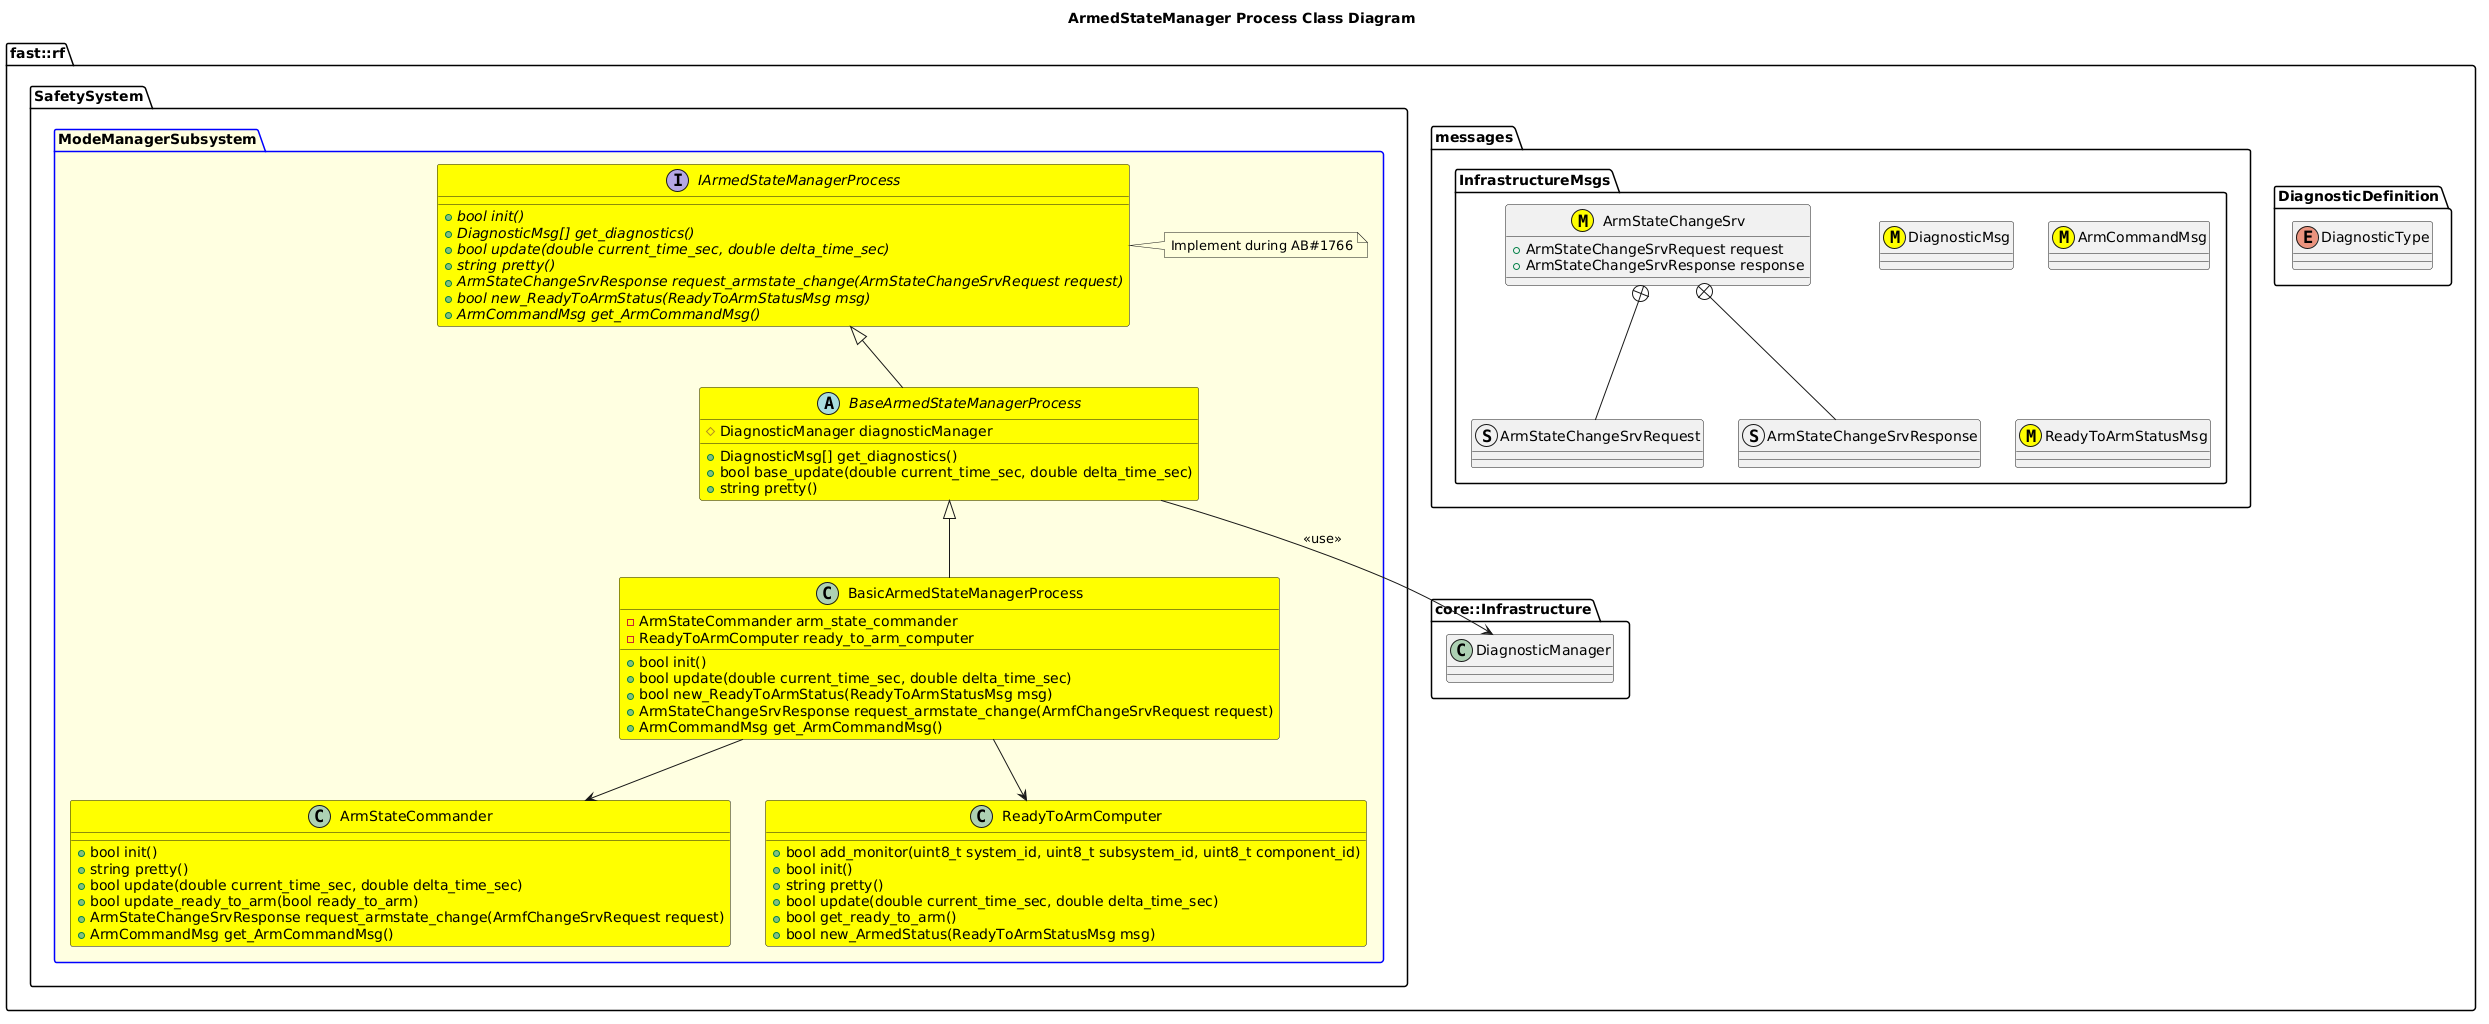
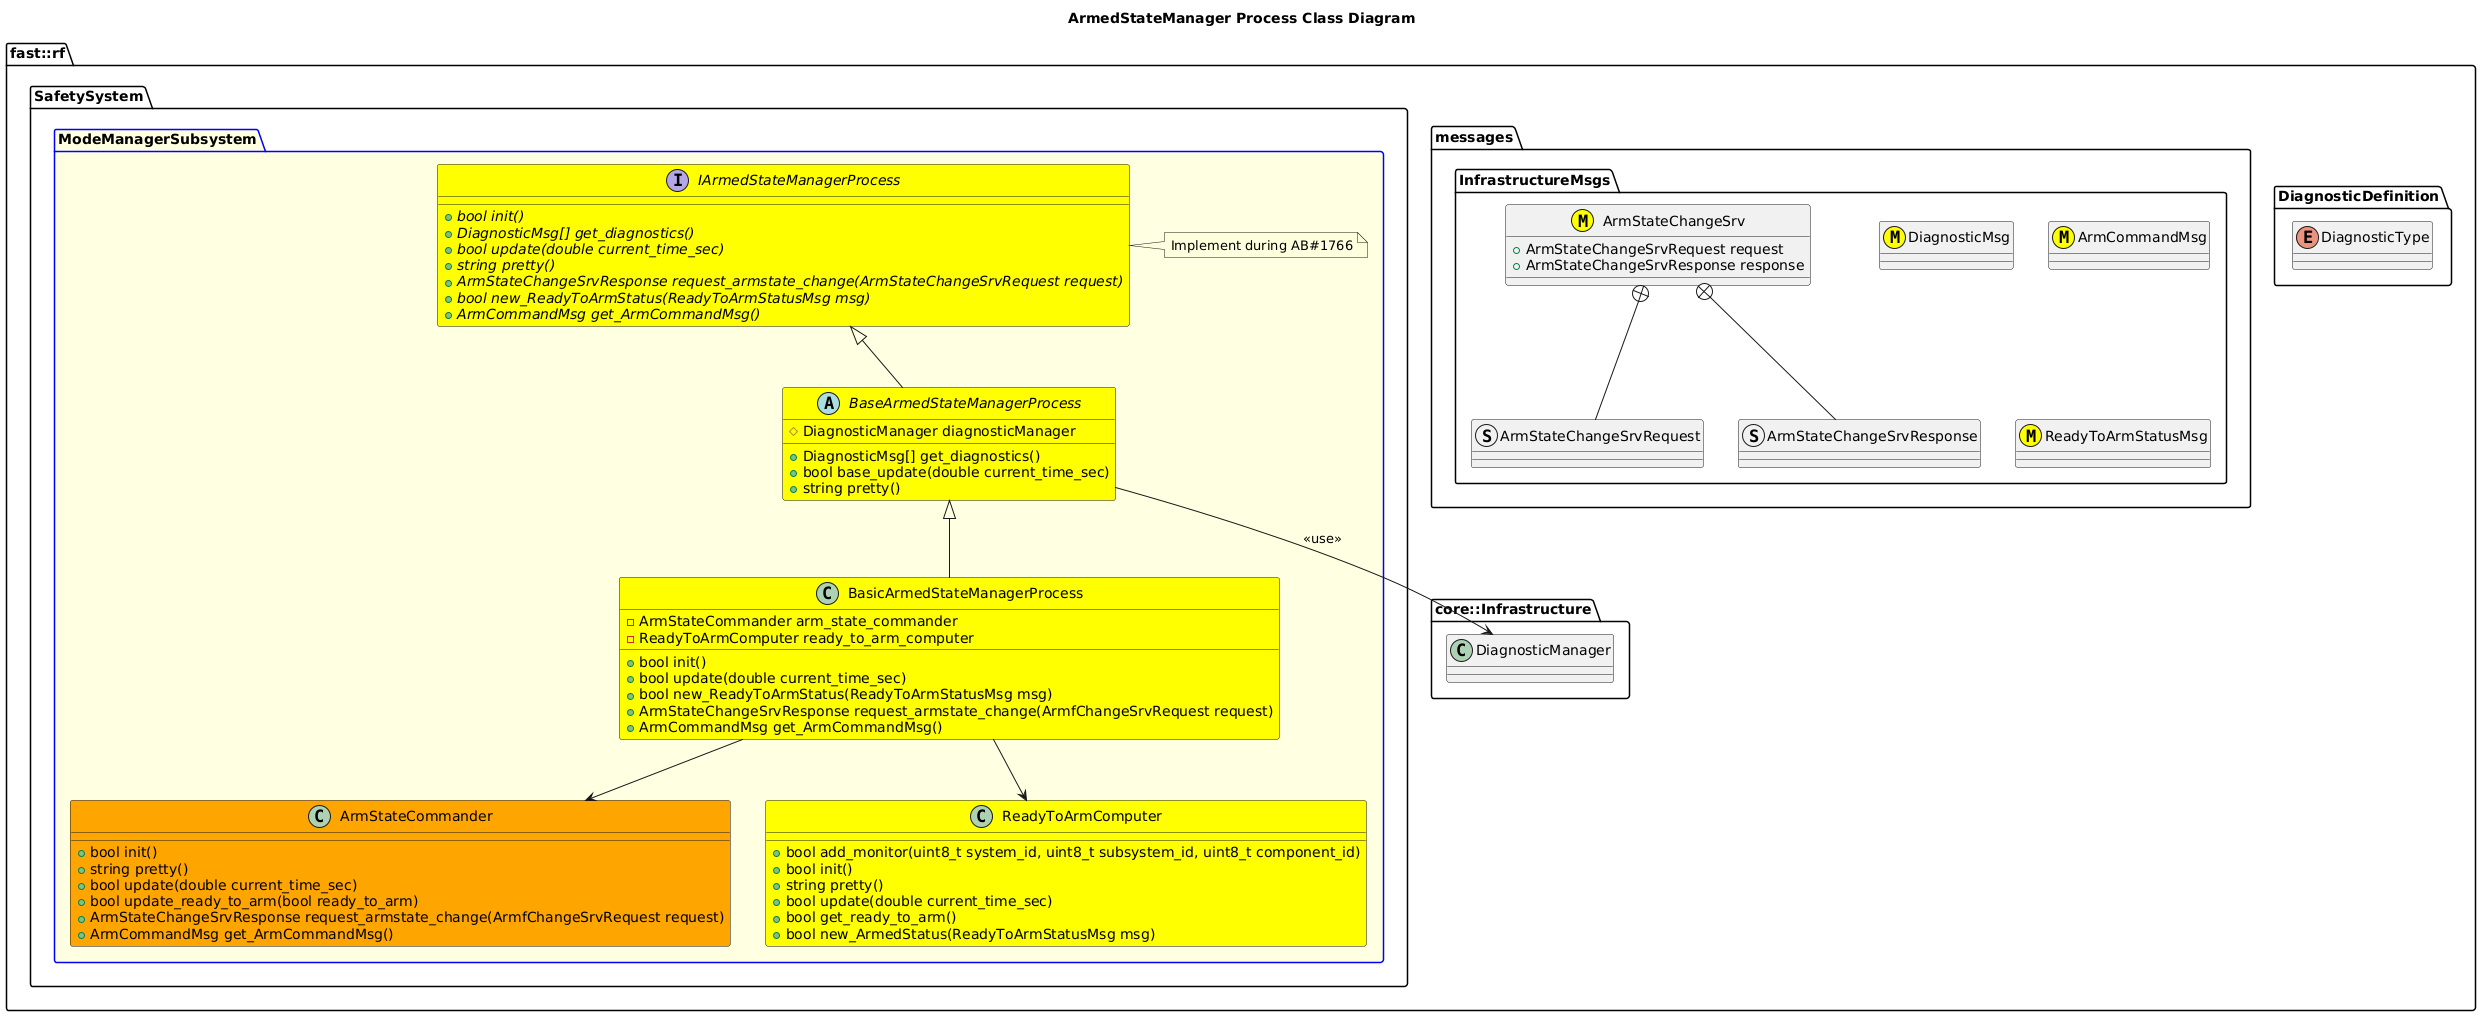
WIP

diff --git a/Systems/Safety/Subsystems/ModeManager/Processes/ArmedStateManager/include/ArmStateCommander.hpp b/Systems/Safety/Subsystems/ModeManager/Processes/ArmedStateManager/include/ArmStateCommander.hpp
@@ -1,0 +1,74 @@
+/**
+ * @file ArmStateCommander.hpp
+ * @author David Gitz (davidgitz@gmail.com)
+ * @brief
+ * @version 0.1
+ * @date 2026-07-17
+ *
+ * @copyright Copyright (c) 2026
+ *
+ */
+#pragma once
+#include <ArmCommandMsg.hpp>
+#include <ArmStateChangeSrv.hpp>
+namespace fast::rf::SafetySystem::ModeManagerSubsystem {
+    /**
+     * @brief ArmStateCommander
+     * @details Responsible for computing the Arm State of the Robot
+     */
+    class ArmStateCommander {
+       public:
+        static constexpr double ARMING_HOLD_TIME =
+            5.0f;  //!< How long to hold the Arming State before transition to Armed
+        /**
+         * @brief Initialize the Object
+         *
+         * @return true
+         * @return false
+         */
+        bool init();
+        /**
+         * @brief Get a nice string for the state of the robot
+         *
+         * @return std::string
+         */
+        std::string pretty();
+        /**
+         * @brief Update the Object
+         *
+         * @param current_time_sec
+         * @return true
+         * @return false
+         */
+        bool update(double current_time_sec);
+        /**
+         * @brief Update the Robot Ready To Arm State
+         *
+         * @param robot_ready_to_arm This should be a single value representing the entire Ready To Arm state for the
+         * Robot
+         * @return true
+         * @return false
+         */
+        bool update_ready_to_arm(bool robot_ready_to_arm);
+        /**
+         * @brief A Service to request an Arm State Change.  Allowed States: ARMED, DISARMED.
+         *
+         * @param request
+         * @return fast::rf::messages::InfrastructureMsgs::ArmStateChangeSrv::ArmStateChangeSrvResponse
+         */
+        fast::rf::messages::InfrastructureMsgs::ArmStateChangeSrv::ArmStateChangeSrvResponse request_armstate_change(
+            fast::rf::messages::InfrastructureMsgs::ArmStateChangeSrv::ArmStateChangeSrvRequest request);
+        /**
+         * @brief Get the ArmCommandMsg object
+         *
+         * @return fast::rf::messages::InfrastructureMsgs::ArmCommandMsg
+         */
+        fast::rf::messages::InfrastructureMsgs::ArmCommandMsg get_ArmCommandMsg() { return arm_command; }
+
+       private:
+        bool first_run{true};
+        double last_time_sec{-1.0};
+        double run_time{0.0};
+        fast::rf::messages::InfrastructureMsgs::ArmCommandMsg arm_command;
+    };
+}  // namespace fast::rf::SafetySystem::ModeManagerSubsystem

diff --git a/Systems/Safety/Subsystems/ModeManager/Processes/ArmedStateManager/src/test/test_ArmStateCommander.cpp b/Systems/Safety/Subsystems/ModeManager/Processes/ArmedStateManager/src/test/test_ArmStateCommander.cpp
@@ -1,0 +1,55 @@
+
+#include <gtest/gtest.h>
+#include <stdio.h>
+
+#include <ArmCommandMsg.hpp>
+#include <ArmStateChangeSrv.hpp>
+#include <ArmStateCommander.hpp>
+#include <Infrastructure/Logger.hpp>
+using namespace fast::rf::SafetySystem::ModeManagerSubsystem;
+TEST(ArmStateCommander, InterfaceTests) {
+    ArmStateCommander SUT;
+    ASSERT_TRUE(SUT.init());
+    auto str = SUT.pretty();
+    ASSERT_GT(str.size(), 0);
+    fast::rf::Logger::log_debug(SUT.pretty());
+    ASSERT_TRUE(SUT.update(0.0));
+    ASSERT_TRUE(SUT.update_ready_to_arm(false));
+
+    fast::rf::messages::InfrastructureMsgs::ArmStateChangeSrv::ArmStateChangeSrvRequest request;
+    request.requested_armed_state = fast::rf::ArmedState::ARMED;
+    auto response = SUT.request_armstate_change(request);
+    ASSERT_FALSE(response.request_approved);
+
+    ASSERT_EQ(SUT.get_ArmCommandMsg().armed_state, fast::rf::ArmedState::DISARMED_CANNOTARM);
+}
+
+TEST(ArmStateCommander, HappyFlowDisarmArm) {
+    double current_time = 0.0;
+    ArmStateCommander SUT;
+    ASSERT_TRUE(SUT.init());
+    auto str = SUT.pretty();
+    ASSERT_GT(str.size(), 0);
+    fast::rf::Logger::log_debug(SUT.pretty());
+    ASSERT_TRUE(SUT.update(0.0));
+    ASSERT_TRUE(SUT.update_ready_to_arm(true));
+    ASSERT_EQ(SUT.get_ArmCommandMsg().armed_state, fast::rf::ArmedState::DISARMED);
+
+    fast::rf::messages::InfrastructureMsgs::ArmStateChangeSrv::ArmStateChangeSrvRequest request;
+    request.requested_armed_state = fast::rf::ArmedState::ARMED;
+    auto response = SUT.request_armstate_change(request);
+    ASSERT_TRUE(response.request_approved);
+    ASSERT_EQ(SUT.get_ArmCommandMsg().armed_state, fast::rf::ArmedState::ARMING);
+    current_time += 0.1;
+    ASSERT_TRUE(SUT.update(current_time));
+    ASSERT_EQ(SUT.get_ArmCommandMsg().armed_state, fast::rf::ArmedState::ARMING);
+
+    current_time += ArmStateCommander::ARMING_HOLD_TIME;
+    ASSERT_TRUE(SUT.update(current_time));
+    ASSERT_EQ(SUT.get_ArmCommandMsg().armed_state, fast::rf::ArmedState::ARMED);
+
+    request.requested_armed_state = fast::rf::ArmedState::DISARMED;
+    response = SUT.request_armstate_change(request);
+    ASSERT_TRUE(response.request_approved);
+    ASSERT_EQ(SUT.get_ArmCommandMsg().armed_state, fast::rf::ArmedState::DISARMED);
+}

diff --git a/Systems/Safety/Subsystems/ModeManager/Processes/ArmedStateManager/src/ArmStateCommander.cpp b/Systems/Safety/Subsystems/ModeManager/Processes/ArmedStateManager/src/ArmStateCommander.cpp
@@ -1,0 +1,40 @@
+#include <ArmStateCommander.hpp>
+#include <Infrastructure/Logger.hpp>
+namespace fast::rf::SafetySystem::ModeManagerSubsystem {
+    bool ArmStateCommander::init() {
+        arm_command.armed_state = fast::rf::ArmedState::DISARMED_CANNOTARM;
+        return true;
+    }
+    std::string ArmStateCommander::pretty() {
+        std::string str = "---Arm State Commander---\n";
+        str += "\tRun Time: " + std::to_string(run_time) + " (sec)\n";
+        str += "\tArmed State: " + fast::rf::pretty(arm_command.armed_state);
+        return str;
+    }
+
+    bool ArmStateCommander::update(double current_time_sec) {
+        if (first_run) {
+            last_time_sec = current_time_sec;
+        } else {
+            double delta_time = current_time_sec - last_time_sec;
+            last_time_sec = current_time_sec;
+            run_time += delta_time;
+        }
+        return true;
+    }
+    bool ArmStateCommander::update_ready_to_arm(bool robot_ready_to_arm) {
+        if (robot_ready_to_arm == false) {
+            arm_command.armed_state = fast::rf::ArmedState::DISARMED_CANNOTARM;
+            return true;
+        }
+        return true;
+    }
+    fast::rf::messages::InfrastructureMsgs::ArmStateChangeSrv::ArmStateChangeSrvResponse
+    ArmStateCommander::request_armstate_change([
+        [maybe_unused]] fast::rf::messages::InfrastructureMsgs::ArmStateChangeSrv::ArmStateChangeSrvRequest request) {
+        fast::rf::messages::InfrastructureMsgs::ArmStateChangeSrv::ArmStateChangeSrvResponse response;
+        response.request_approved = false;
+        return response;
+    }
+
+}  // namespace fast::rf::SafetySystem::ModeManagerSubsystem

diff --git a/Systems/Safety/doc/System-Safety.md b/Systems/Safety/doc/System-Safety.md
@@ -12,6 +12,7 @@
 - [Outputs](#outputs)
 - [How It Works](#how-it-works)
   - [Detailed Documentation](#detailed-documentation)
+    - [Armed State Machine](#armed-state-machine)
   - [Software Content](#software-content)
 - [Subsystems](#subsystems)
   - [Package Diagram](#package-diagram)
@@ -59,6 +60,8 @@ Ideas:
 - System Resource Monitor (CPU, RAM, etc)
 
 ## Detailed Documentation
+### Armed State Machine
+![](../Subsystems/ModeManager/Processes/ArmedStateManager/doc/puml/ArmedStateMachineDiagram.png)
 
 ## Software Content
 

diff --git a/Systems/Safety/Subsystems/ModeManager/Processes/ArmedStateManager/doc/Process-ArmedStateManager.md b/Systems/Safety/Subsystems/ModeManager/Processes/ArmedStateManager/doc/Process-ArmedStateManager.md
@@ -55,6 +55,8 @@ The following outputs are provided by this system.
 
 ## Detailed Documentation
 
+![](puml/ArmedStateMachineDiagram.png)
+
 ![](../../../../../../../Legend.png)
 
 ## Class Diagram
